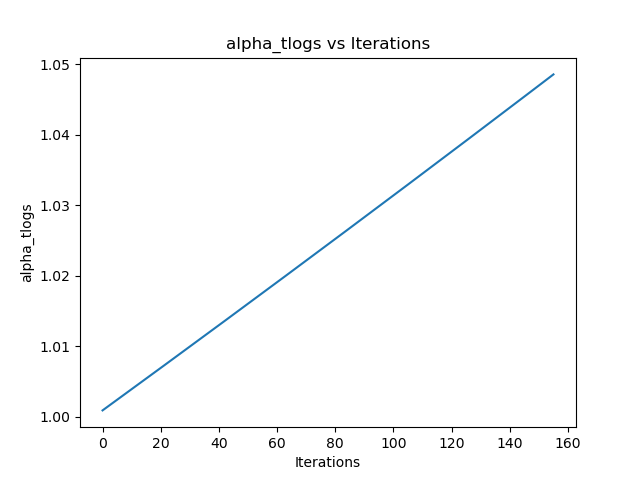
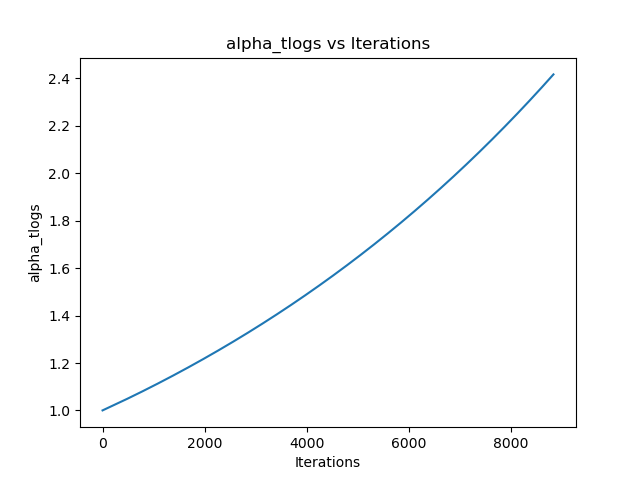
debugging

diff --git a/main.py b/main.py
@@ -12,19 +12,19 @@ from UAV_gym_env import UAVGymEnv
 # env = gym.make("HalfCheetah-v4")
 # env.action_space.seed(1234)
 
-env = UAVGymEnv(uav_number=50, max_distance=100)
+env = UAVGymEnv(uav_number=20, max_distance=100)
 env.seed(1234)
 
 th.manual_seed(1234)
 
 # Agent
 agent = Agent(env=env, 
-            hidden_dim=256,
-            batch_size=128,
+            hidden_dim=64,
+            batch_size=256,
             alpha=0.2,
             gamma=0.99,
             tau=0.005,
-            lr=0.0003,
+            lr=0.0001,
             update_interval=1,
             auto_entropy=True,
             policy="Dirichlet")
@@ -39,7 +39,7 @@ policy_loss_arr = []
 alpha_loss_arr = []
 alpha_tlogs_arr = []
 rewards = []
-moving_average = 5
+moving_average = 10
 
 # Training Loop
 total_timesteps = 0
@@ -80,7 +80,9 @@ try:
 
             state = next_state
             # print("Total Timesteps: {} Episode Timesteps: {} Reward: {}".format(total_timesteps, episode_timesteps, episode_reward))
-        rewards.append(episode_reward)
+
+        if total_timesteps > start_steps:
+            rewards.append(episode_reward)
 
         print("Total Timesteps: {} Episode Num: {} Episode Timesteps: {} Reward: {}".format(total_timesteps, i, episode_timesteps, episode_reward))
 
@@ -99,7 +101,7 @@ except KeyboardInterrupt:
     }
 
     df = pd.DataFrame(data)
-    df.to_csv('data.csv', index=False)
+    df.to_csv('./plots/data.csv', index=False)
 
     fig, ax = plt.subplots()
     rewards = np.convolve(rewards, np.ones(moving_average)/moving_average, 'valid')

diff --git a/networks.py b/networks.py
@@ -113,14 +113,14 @@ class DirichletPolicy(nn.Module):
         self.apply(weights_init_)
 
     def forward(self, state):
-        alpha = self.policy(state) + 1
-        alpha = th.clamp(alpha, min=EPS, max=1 - EPS)
+        alpha = self.policy(state) + 1 + EPS
+        # alpha = th.clamp(alpha, min=EPS, max=1 - EPS)
         return alpha
 
     def sample(self, state):
         alpha = self.forward(state)
         dist = Dirichlet(alpha)
         actions = dist.rsample()
-        log_probs = dist.log_prob(actions).sum(-1, keepdim=True)
+        log_probs = dist.log_prob(actions).sum()
 
         return actions, log_probs

diff --git a/mission.py b/mission.py
@@ -11,8 +11,8 @@ class MissionGenerator:
         self.generate()
     
     def generate(self):
-        distance = self.np_random.integers(0, self._max_distance)
-        # distance = self._max_distance
+        # distance = self.np_random.integers(0, self._max_distance)
+        distance = self._max_distance
         self._history.append(distance)
         return distance
 

diff --git a/uav.py b/uav.py
@@ -155,7 +155,7 @@ class UAV:
                 self.pusher_coil_factor *= 1.001
             else:
                 pusher_coil_deg_rate = self.pusher_coil_factor*round(random.uniform(1, 3) * 0.000005, 6)
-                self.pusher_coil_factor *= 1.004
+                self.pusher_coil_factor *= 1.002
 
             self.pusher_coil_health -= pusher_coil_deg_rate
 

diff --git a/UAV_gym_env.py b/UAV_gym_env.py
@@ -41,7 +41,7 @@ class UAVGymEnv(gym.Env):
     def _reward(self, done: float) -> float:
         reward = 0
         if not done:
-            reward = self.MissionGenerator.current()
+            reward = self.MissionGenerator.current()/100
         # reward -= np.linalg.norm(self._last_health-self.Fleet.getStats()[:-1])
         return reward
 
